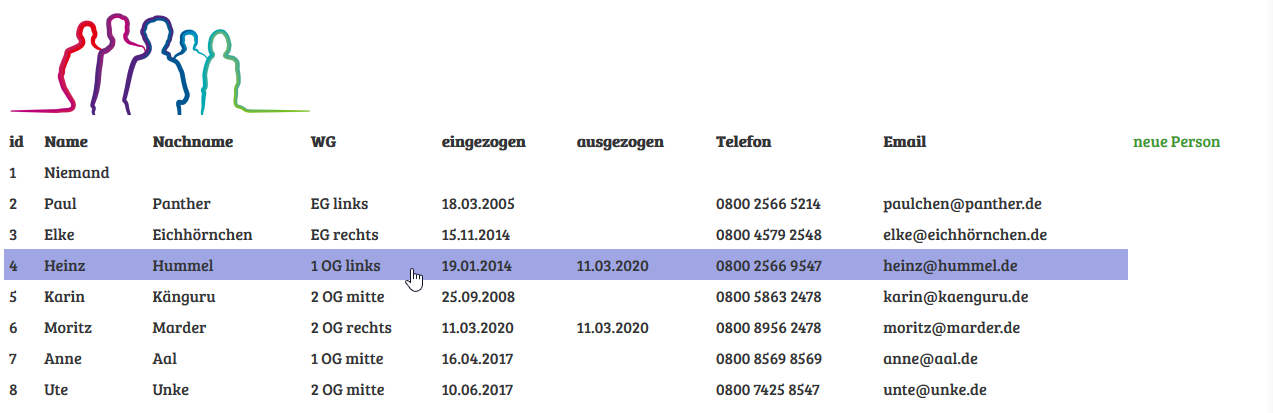
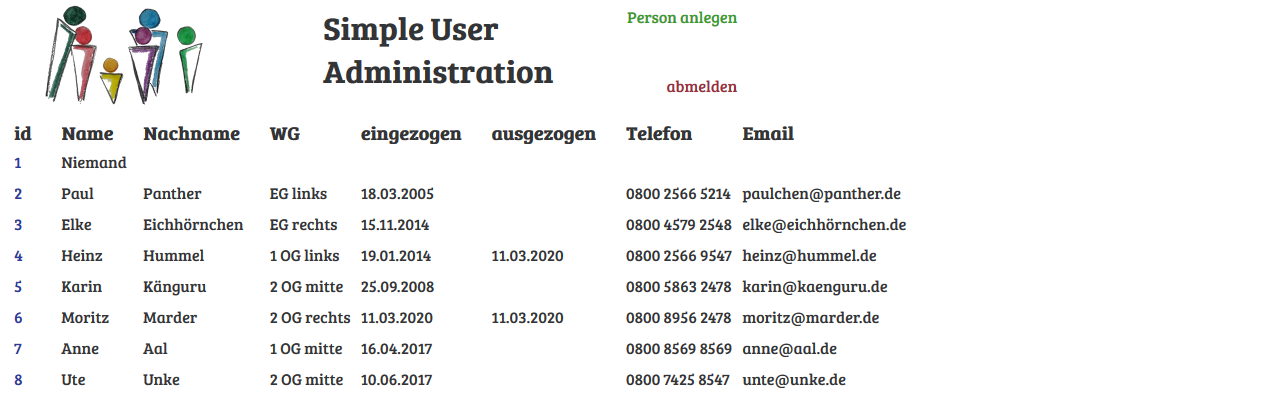
Add files via upload

diff --git a/index.php b/index.php
@@ -1,13 +1,16 @@
 <?php
 
+$app_name = 'Simple User Administration';
 // aktuelle Zeit für das "geaendert" FIELD
 $dt = new DateTime("now", new DateTimeZone('Europe/Berlin'));
 $local_time =  $dt->format('d.m.Y H:i');
+$local_time_sort =  $dt->format('Y_m_d_H_i_');
 
 
 // make connection
-$db = new SQLite3('data1.db');
+$filename = 'files/data.db';
 $tablename = 'users';
+$db = new SQLite3($filename);
 
 
 //////////////////// JUST FOR THE FIRST RUN
@@ -44,30 +47,17 @@ if ($first_run){
 //////////////////// JUST FOR THE FIRST RUN
 
 
-// update the row
-if (isset($_POST['update_data'])) {
-    $id = $_POST['id'];
-    //echo "ID: ".array_values($row)[$id]['id'];
-    //print_r($_POST);
-    foreach ($_POST as $param_name => $param_val) {
-        if ($param_name != 'update_data' && $param_name != 'id' ) {
-            $query = "UPDATE $tablename set  $param_name ='$param_val' WHERE id=$id ";
-            $db->exec($query);
-        }
-    }
-}
-
 // delete row
 if (isset($_GET['delete'])) {
     $id = $_GET['id'];
     $query = "DELETE FROM $tablename WHERE id=$id";
 		$db->exec($query);
+    copy($filename, "files/archive/".$local_time_sort."delete_".$id.".db");
 }
 
-
+// get the data
 // show only this columns in the index    'erstellt', 'geaendert',
 $input2=['id', 'Name', 'Nachname', 'WG', 'eingezogen', 'ausgezogen', 'Telefon', 'Email'];
-// get the data
 $result = $db->query("SELECT ".implode(', ', $input2)." FROM $tablename");
 //$result = $db->query("SELECT * FROM $tablename");
 $result->fetchArray(SQLITE3_NUM);
@@ -90,6 +80,10 @@ while ($row = $result->fetchArray(SQLITE3_NUM)) {
   <meta charset="utf-8">
 	<title>Data List</title>
 	<style>
+  /* table > tbody > tr > td{border: 1px solid red; border-collapse: collapse;}
+  table > tbody > tr > td > table > tbody > tr > td{border: 1px solid blue; border-collapse: collapse;}
+  table > tbody > tr > td > table > tbody > tr > td > table > tbody > tr > td{border: 1px solid green; border-collapse: collapse;} */
+
   body{color:#333436; }
   a{text-decoration: none;}
   a.blue, a.blue:visited{color: #2d399a;}
@@ -98,40 +92,94 @@ while ($row = $result->fetchArray(SQLITE3_NUM)) {
   a.green:hover{color: #173e12;}
   a.red, a.red:visited{color: #9a2d3a;}
   a.red:hover{color: #3e1217;}
+  td>h1{display: inline;font-size: 2em;font-weight: bold; }
+  td>h2{display: inline;font-size: 1.5em;font-weight: bold; }
+  td>h3{display: inline;font-size: 1.2em;font-weight: bold; }
 	table, tr, td{border-style:none;  border-bottom:0px solid #eee; border-collapse: collapse;}
   tr.pointer{cursor:pointer;}
+  tr.hover{transition: 0.3s;}
   tr.hover:hover:nth-child(5n+1) {background: #9fa6e3}
   tr.hover:hover:nth-child(5n+2) {background: #9fe3cd}
   tr.hover:hover:nth-child(5n+3) {background: #e3b29f}
   tr.hover:hover:nth-child(5n+4) {background: #c2e39f}
   tr.hover:hover:nth-child(5n+5) {background: #e39fdd}
-  td.logo{padding-left:6px; width:310px; height:110px;}
-  td.headline{font-weight: bold;}
-	</style>
-  <script type="text/javascript"> function DoNav(url){document.location.href = url; }</script>
+  td.logo{width:310px; height:110px;}
+  td.headline{padding-left: 5px;padding-right: 25px;}
+  td.user_cell{padding: 5px;}
+  td{padding: 1px;}
+  td{vertical-align: top; text-align: left;}
+  td.header{width: 220px;}
+  td.inter_heading{vertical-align: bottom;  height:33px;}
+  td.freifeld{display: block; width:400px; height: 200px; overflow-y: scroll}
+  td.key{height:25px; width: 100px;}
+  td.value{width: 200px;}
+  td.links{text-align: right; width: 180px;}
+  td.small{font-size: 70%;}
+  input[type=text], input[type=password], input[type=email], input[type=number]{border: 1px solid grey;}
+  textarea{border-style: none;}
+
+</style>
+<script type="text/javascript"> function tr_click(url){document.location.href = url; }</script>
 </head>
+
+
+
 <body>
-	<table width="100%" cellpadding="5" cellspacing="1" border="1">
-    <tr>
-      <td class="logo" colspan="5"><a href="/burgis/index.php"><img class="logo" src="files/logo_burgis.png"></a></td>
-    </tr>
-		<tr>
-			<?
-			// Schleife macht aus den $fieldnames der DB Überschriften für die Tabelle
-			foreach ($fieldnames AS $field){
-				echo "<td class=\"headline\">".$field."</td>\n";
-			}
-			echo "<td class=\"userrow\"><a class=\"green\" href=\"user.php?new\">neue Person</a></td>\n";
-			?></tr><?php
-			// Schleift durch das multi Array, erst jeder User eine Reihe, dann jeder Item eine Splate
-			for ($i = 0;$i < count($rows);$i++) {
-			    echo "<tr onclick=\"DoNav('user.php?id=" . $rows[$i][0] . "')\" class=\"hover pointer\" >\n";
-			    for ($j = 0;$j < count($rows[$i]);$j++) {
-			        echo "<td>" . $rows[$i][$j] . "</td>\n";
-			    }
-			    // echo "<td><a class=\"blue\" href=\"user.php?id=" . $rows[$i][0] . "\">Details</a></td>\n";
-			    echo "</tr>\n";
-			} ?>
-		</table>
+<!-- PAGE -->
+<table>
+  <tr>
+    <td colspan="8">
+    <!-- HEADER -->
+    <table>
+      <tr>
+        <td class="logo"><a href="/burgis/index.php"><img class="logo" src="files/Stina_2_100.png"></a></td>
+        <td class="header">
+        <!-- DATENSATZ -->
+          <table>
+            <tr><td colspan="2"><h1><? echo $app_name; ?></h1></td></tr>
+            <!-- <tr><td class="small">&nbsp;</td><td class="small">&nbsp;</td></tr> -->
+            <!-- <tr><td class="small">&nbsp;</td><td class="small">&nbsp;</td></tr> -->
+            <tr><td class="small">&nbsp;</td><td class="small">&nbsp;</td></tr>
+          </table>
+        <!-- DATENSATZ -->
+        </td>
+        <td class="header">
+        <!-- HYPERLINKS -->
+          <table>
+            <tr><td class="links"><a class="green" href="user.php?new">Person anlegen</a></td></tr>
+            <tr><td class="links">&nbsp;</td></tr>
+            <tr><td class="links">&nbsp;</td></tr>
+            <tr><td class="links"><a class="red" href="index.php?logout">abmelden</a></td></tr>
+          </table>
+        <!-- HYPERLINKS -->
+        </td>
+      </tr>
+    </table>
+    <!-- HEADER -->
+    </td>
+  </tr>
+  <tr>
+    <td>
+    <table>
+      <tr>
+    <?
+    // Schleife macht aus den $fieldnames der DB Überschriften für die Tabelle
+    foreach ($fieldnames AS $field){
+      echo "<td class=\"headline\"><h3>".$field."</h3></td>\n";
+    }
+
+    ?></tr><?php
+    // Schleift durch das multi Array, erst jeder User eine Reihe, dann jeder Item eine Splate
+    for ($i = 0;$i < count($rows);$i++) {
+        echo "<tr onclick=\"tr_click('user.php?id=" . $rows[$i][0] . "')\" class=\"hover pointer\" >\n";
+        echo "<td class=\"user_cell\"><a class=\"blue\" href=\"user.php?id=" . $rows[$i][0] . "\">" . $rows[$i][0] . "</a></td>\n";
+        for ($j = 1;$j < count($rows[$i]);$j++) {
+            echo "<td  class=\"user_cell\" >" . $rows[$i][$j] . "</td>\n";
+        }
+        echo "</tr>\n";
+    } ?>
+
+
+  </table>
 </body>
 </html>

diff --git a/user.php b/user.php
@@ -1,16 +1,18 @@
 <?php
 if( isset($_GET['id']) ){$id = $_GET['id'];}
+if( isset($_POST['id']) ){$id = $_POST['id'];}
 
 
 // aktuelle Zeit für das "geaendert" FIELD
 $dt = new DateTime("now", new DateTimeZone('Europe/Berlin'));
 $local_time =  $dt->format('d.m.Y H:i');
+$local_time_sort =  $dt->format('Y_m_d_H_i_');
 
 
 // make connection
-$db = new SQLite3('data1.db');
+$filename = 'files/data.db';
 $tablename = 'users';
-
+$db = new SQLite3($filename);
 
 // create a new user
 if (isset($_POST['new_user'])) {
@@ -26,6 +28,7 @@ if (isset($_POST['new_user'])) {
   $db->exec($query);
   // get the id of the new user to show him
   $id = $db->querySingle("SELECT id FROM $tablename WHERE id = (SELECT MAX(id) FROM $tablename) order by id desc limit 1");
+  copy($filename, "files/archive/".$local_time_sort."new_".$id.".db");
 }
 
 // update the user data
@@ -39,6 +42,7 @@ if (isset($_POST['update_user'])) {
             $db->exec($query);
         }
     }
+    copy($filename, "files/archive/".$local_time_sort."update_".$id.".db");
 }
 
 // get the data
@@ -158,26 +162,41 @@ elseif(isset($_GET['new'])){
     a.green:hover{color: #173e12;}
     a.red, a.red:visited{color: #9a2d3a;}
     a.red:hover{color: #3e1217;}
-    td{padding: 1px;}
-    td{vertical-align: top; text-align: left;}
     td>h1{display: inline;font-size: 2em;font-weight: bold; }
     td>h2{display: inline;font-size: 1.5em;font-weight: bold; }
     td>h3{display: inline;font-size: 1.2em;font-weight: bold; }
+  	table, tr, td{border-style:none;  border-bottom:0px solid #eee; border-collapse: collapse;}
+    tr.pointer{cursor:pointer;}
+    tr.hover{transition: 0.3s;}
+    tr.hover:hover:nth-child(5n+1) {background: #9fa6e3}
+    tr.hover:hover:nth-child(5n+2) {background: #9fe3cd}
+    tr.hover:hover:nth-child(5n+3) {background: #e3b29f}
+    tr.hover:hover:nth-child(5n+4) {background: #c2e39f}
+    tr.hover:hover:nth-child(5n+5) {background: #e39fdd}
     td.logo{width:310px; height:110px;}
+    td.headline{font-weight: bold;}
+    td.user_cell{padding: 5px;}
+    td{padding: 1px;}
+    td{vertical-align: top; text-align: left;}
     td.header{width: 220px;}
     td.inter_heading{vertical-align: bottom;  height:33px;}
     td.freifeld{display: block; width:400px; height: 200px; overflow-y: scroll}
     td.key{height:25px; width: 100px;}
     td.value{width: 200px;}
     td.links{text-align: right; width: 180px;}
-    td.red > a{color:red;}
-    .colspan2{flex: 2;}
+    td.small{font-size: 70%;}
     input[type=text], input[type=password], input[type=email], input[type=number]{border: 1px solid grey;}
     textarea{border-style: none;}
   </style>
 </head>
+
+
+</style>
+<script type="text/javascript"> function tr_click(url){document.location.href = url; }</script>
+</head>
+
+
 <body>
-<div class="page">
 <!-- PAGE -->
 <table>
   <tr>
@@ -185,13 +204,14 @@ elseif(isset($_GET['new'])){
     <!-- HEADER -->
     <table>
       <tr>
-        <td class="logo"><a href="/burgis/index.php"><img class="logo" src="files/logo_burgis.png"></a></td>
+        <td class="logo"><a href="/burgis/index.php"><img class="logo" src="files/Stina_2_100.png"></a></td>
         <td class="header">
         <!-- DATENSATZ -->
           <table>
             <tr><td colspan="2"><h1><? echo $name_header; ?></h1></td></tr>
-            <tr><td>erstellt: </td><td> <? echo $erstellt; ?></td></tr>
-            <tr><td>geändert: </td><td> <? echo $geaendert; ?></td></tr>
+            <tr><td class="small">&nbsp;</td><td class="small">&nbsp;</td></tr>
+            <tr><td class="small">erstellt: </td><td class="small"> <? echo $erstellt; ?></td></tr>
+            <tr><td class="small">geändert: </td><td class="small"> <? echo $geaendert; ?></td></tr>
           </table>
         <!-- DATENSATZ -->
         </td>
@@ -249,4 +269,5 @@ elseif(isset($_GET['new'])){
 
 </table>
 <!-- PAGE -->
-</div>
+</body>
+</html>

diff --git a/login.php b/login.php
@@ -1,0 +1,63 @@
+<?php
+// https://www.php-kurs.com/loesung-einlogg-script.htm
+session_start();
+$_SESSION['last_visit'] = time();
+$session_timeout = 1800;
+if((time() - $_SESSION['last_visit']) > $session_timeout) {
+  session_destroy();
+}
+
+
+
+if ( isset($_GET['logout'])){
+  session_destroy();
+  header('Location: login.php');
+  exit;}
+
+if ( isset($_POST['benutzername']) and $_POST['benutzername'] != ""
+     and isset($_POST['kennwort']) and $_POST['kennwort'] != ""  )
+{
+    // Kontrolle, ob Benutzername und Kennwort korrekt
+    // diese werden i.d.R. aus Datenbank ausgelesen
+    if ($_POST['benutzername'] == "admin" AND $_POST['kennwort'] == "admin" or
+    $_POST['benutzername'] == "finanzen" AND $_POST['kennwort'] == "finanzen" or
+    $_POST['benutzername'] == "verwaltung" AND $_POST['kennwort'] == "verwaltung" )
+    {
+        $_SESSION['benutzername'] = $_POST['benutzername'];
+        $_SESSION['eingeloggt'] = true;
+        echo "<b>einloggen erfolgreich</b>";
+    }
+    else
+    {
+        echo "<b>ungültige Eingabe</b>";
+        $_SESSION['eingeloggt'] = false;
+    }
+}
+
+if ( isset($_SESSION['eingeloggt']) and $_SESSION['eingeloggt'] == true )
+{
+    // Benutzer begruessen
+    echo "<h1>Hallo ". $_SESSION['benutzername'] . "</h1>";
+}
+else
+{
+    // Einloggformular anzeigen
+    echo "<h1>Bitte loggen Sie sich ein";
+
+    $url = $_SERVER['SCRIPT_NAME'];
+    echo '<form action="'. $url .'" method="POST">';
+    echo '<p>Benutzername:<br>';
+    echo '<input type="text" name="benutzername" value="">';
+    echo '<p>Kennwort:<br>';
+    echo '<input type="password" name="kennwort" value="">';
+    echo '<p><input type="Submit" value="einloggen">';
+    echo '</form>';
+
+    // Programm wird hier beendet, denn Benutzer ist noch nicht
+    // eingeloggt
+    exit;
+}
+
+echo $_SESSION['benutzername'];
+echo "<a href=\"login.php?logout\">logout</a>";
+?>
